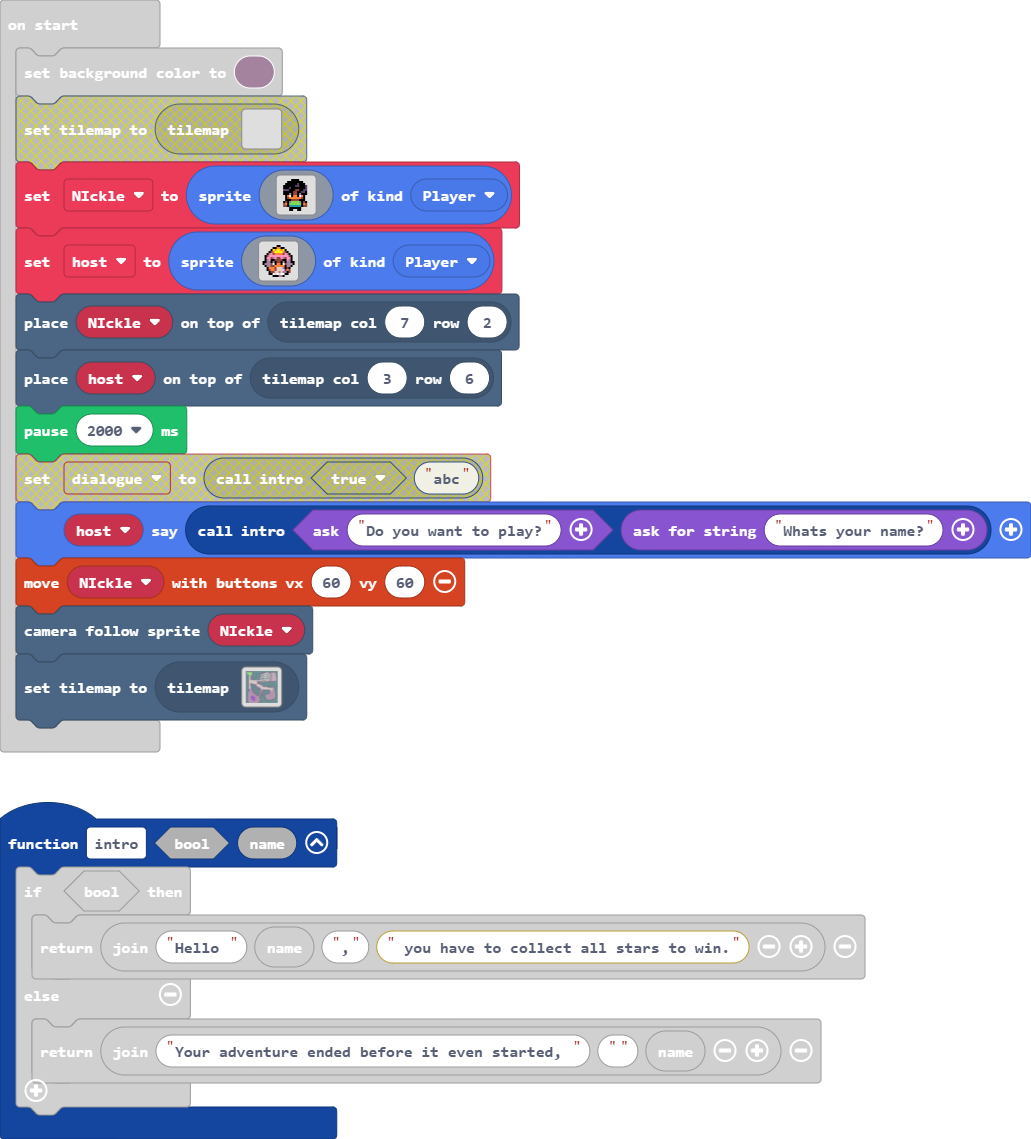
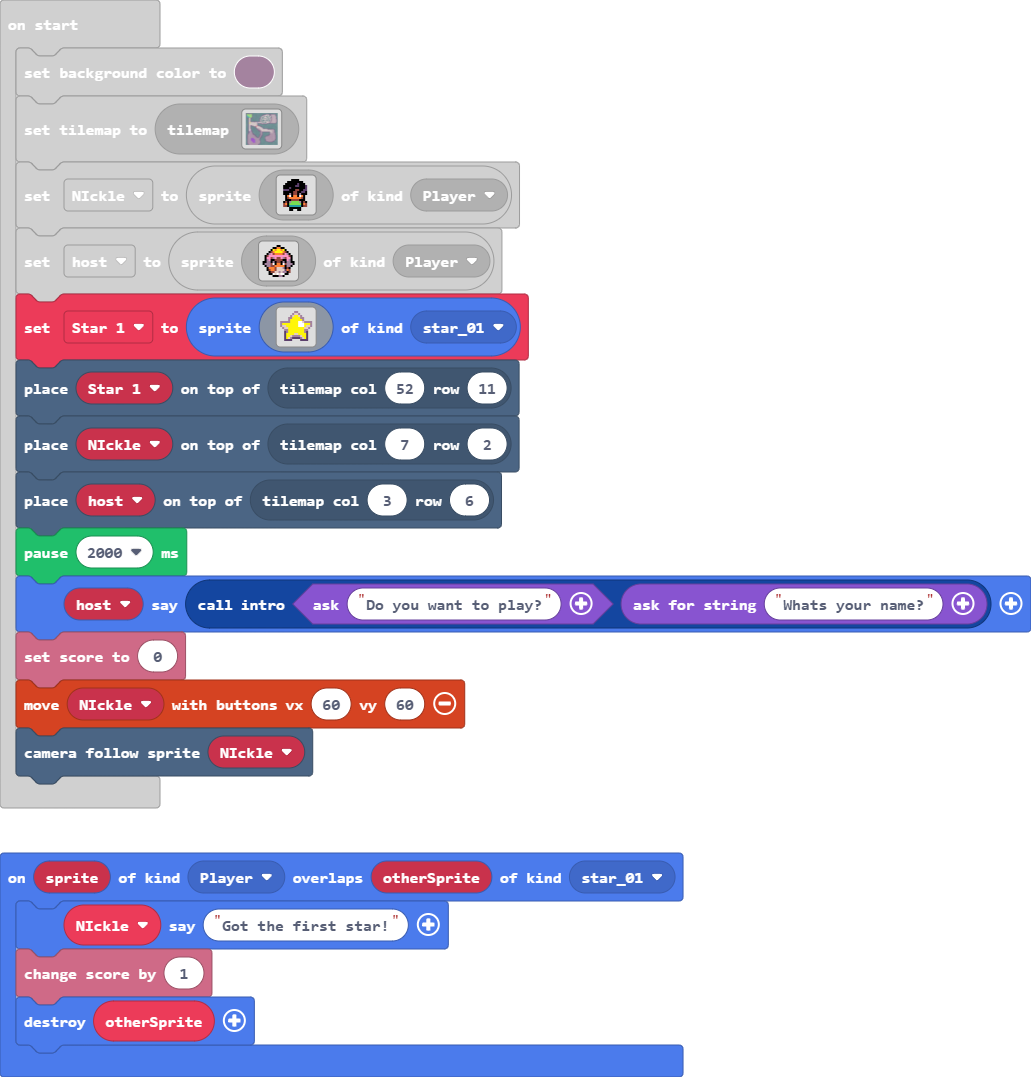
Update main.blocks, main.ts

diff --git a/main.ts b/main.ts
@@ -1,3 +1,6 @@
+namespace SpriteKind {
+    export const star_01 = SpriteKind.create()
+}
 controller.up.onEvent(ControllerButtonEvent.Pressed, function () {
     animation.runImageAnimation(
     NIckle,
@@ -194,6 +197,11 @@ controller.right.onEvent(ControllerButtonEvent.Pressed, function () {
 controller.up.onEvent(ControllerButtonEvent.Released, function () {
     animation.stopAnimation(animation.AnimationTypes.MovementAnimation, NIckle)
 })
+sprites.onOverlap(SpriteKind.Player, SpriteKind.star_01, function (sprite, otherSprite) {
+    NIckle.sayText("Got the first star!")
+    info.changeScoreBy(1)
+    sprites.destroy(otherSprite)
+})
 controller.down.onEvent(ControllerButtonEvent.Pressed, function () {
     animation.runImageAnimation(
     NIckle,
@@ -292,9 +300,29 @@ let host = sprites.create(img`
     . . . f f 1 d 1 d 1 1 f f . . . 
     . . . . . f f f b b f . . . . . 
     `, SpriteKind.Player)
+let Star_1 = sprites.create(img`
+    . . . . . . . b b . . . . . . . 
+    . . . . . . b d d b . . . . . . 
+    . . . . . b d 5 5 d b . . . . . 
+    . . . . b b 5 5 5 5 b b . . . . 
+    . . . . b 5 5 5 5 5 5 b . . . . 
+    b b b b b 5 5 5 5 1 1 d b b b b 
+    b 5 5 5 5 5 5 5 5 1 1 1 5 5 5 b 
+    b d d 5 5 5 5 5 5 1 1 1 5 d d b 
+    . b d d 5 5 5 5 5 5 5 5 d d b . 
+    . . b b 5 5 5 5 5 5 5 5 b b . . 
+    . . c b 5 5 5 5 5 5 5 5 b c . . 
+    . . c 5 5 5 5 d d 5 5 5 5 c . . 
+    . . c 5 5 d b b b b d 5 5 c . . 
+    . . c 5 d b c c c c b d 5 c . . 
+    . . c c c c . . . . c c c c . . 
+    . . . . . . . . . . . . . . . . 
+    `, SpriteKind.star_01)
+tiles.placeOnTile(Star_1, tiles.getTileLocation(52, 11))
 tiles.placeOnTile(NIckle, tiles.getTileLocation(7, 2))
 tiles.placeOnTile(host, tiles.getTileLocation(3, 6))
 pause(2000)
 host.sayText(intro(game.ask("Do you want to play?"), game.askForString("Whats your name?")))
+info.setScore(0)
 controller.moveSprite(NIckle, 60, 60)
 scene.cameraFollowSprite(NIckle)
